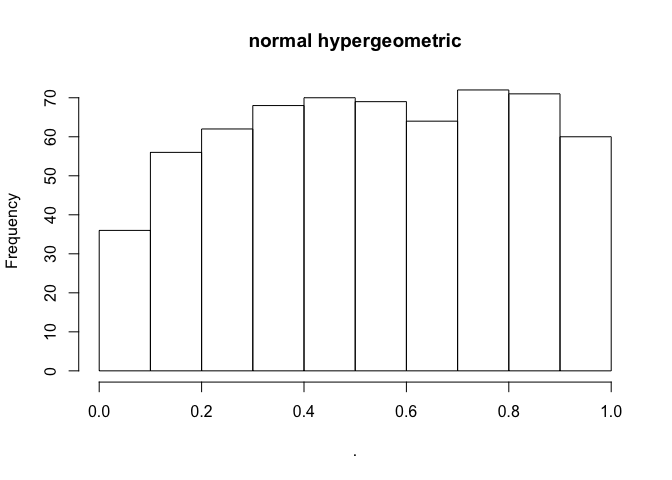
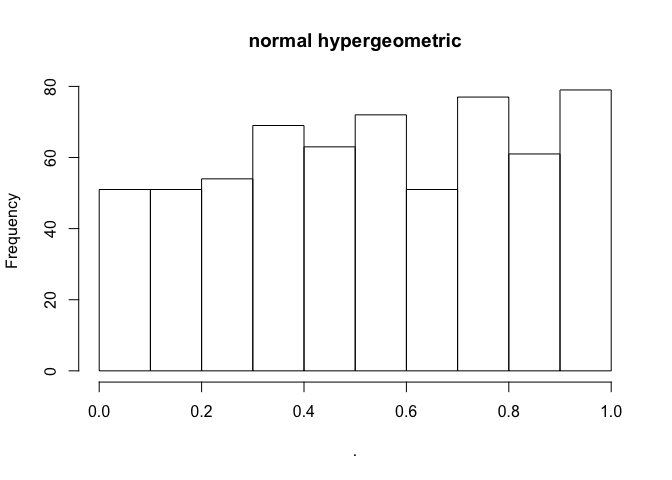
bug fix
a background count bug

diff --git a/README.md b/README.md
@@ -68,94 +68,94 @@ GOEA(gene_set = eids_set,
 </thead>
 <tbody>
 <tr class="odd">
-<td align="left"><a href="GO:0006672" class="uri">GO:0006672</a></td>
-<td align="left">bubble DNA binding</td>
-<td align="right">3</td>
-<td align="right">4</td>
-<td align="right">0.0026516</td>
-<td align="right">0.7022065</td>
-<td align="right">8.40</td>
-</tr>
-<tr class="even">
 <td align="left"><a href="GO:0009967" class="uri">GO:0009967</a></td>
 <td align="left">RNA polymerase III type 3 promoter transcriptional preinitiation complex assembly</td>
 <td align="right">29</td>
 <td align="right">191</td>
-<td align="right">0.0033730</td>
-<td align="right">0.7022065</td>
-<td align="right">1.70</td>
-</tr>
-<tr class="odd">
-<td align="left"><a href="GO:2001235" class="uri">GO:2001235</a></td>
-<td align="left">chorismate mutase activity</td>
-<td align="right">7</td>
-<td align="right">24</td>
-<td align="right">0.0039779</td>
-<td align="right">0.7022065</td>
-<td align="right">3.27</td>
+<td align="right">0.0012078</td>
+<td align="right">0.5996853</td>
+<td align="right">1.77</td>
 </tr>
 <tr class="even">
 <td align="left"><a href="GO:0010647" class="uri">GO:0010647</a></td>
 <td align="left">transcription factor activity, RNA polymerase II core promoter proximal region sequence-specific binding involved in preinitiation complex assembly</td>
 <td align="right">32</td>
 <td align="right">225</td>
-<td align="right">0.0059308</td>
-<td align="right">0.7022065</td>
-<td align="right">1.59</td>
+<td align="right">0.0020695</td>
+<td align="right">0.5996853</td>
+<td align="right">1.66</td>
 </tr>
 <tr class="odd">
 <td align="left"><a href="GO:0023056" class="uri">GO:0023056</a></td>
 <td align="left">dopamine neurotransmitter receptor activity, coupled via Gi/Go</td>
 <td align="right">32</td>
 <td align="right">225</td>
-<td align="right">0.0059308</td>
-<td align="right">0.7022065</td>
-<td align="right">1.59</td>
+<td align="right">0.0020695</td>
+<td align="right">0.5996853</td>
+<td align="right">1.66</td>
 </tr>
 <tr class="even">
-<td align="left"><a href="GO:2001238" class="uri">GO:2001238</a></td>
-<td align="left">citrate (Si)-synthase activity</td>
+<td align="left"><a href="GO:0006672" class="uri">GO:0006672</a></td>
+<td align="left">bubble DNA binding</td>
 <td align="right">3</td>
-<td align="right">5</td>
-<td align="right">0.0061875</td>
-<td align="right">0.7022065</td>
-<td align="right">6.72</td>
+<td align="right">4</td>
+<td align="right">0.0023288</td>
+<td align="right">0.5996853</td>
+<td align="right">8.75</td>
 </tr>
 <tr class="odd">
-<td align="left"><a href="GO:0060538" class="uri">GO:0060538</a></td>
-<td align="left">positive regulation of humoral immune response</td>
-<td align="right">6</td>
-<td align="right">20</td>
-<td align="right">0.0065098</td>
-<td align="right">0.7022065</td>
-<td align="right">3.36</td>
-</tr>
-<tr class="even">
-<td align="left"><a href="GO:0071900" class="uri">GO:0071900</a></td>
-<td align="left">bundle of His development</td>
-<td align="right">12</td>
-<td align="right">61</td>
-<td align="right">0.0070302</td>
-<td align="right">0.7022065</td>
-<td align="right">2.20</td>
-</tr>
-<tr class="odd">
-<td align="left"><a href="GO:0043408" class="uri">GO:0043408</a></td>
-<td align="left">gene conversion of immunoglobulin genes</td>
-<td align="right">15</td>
-<td align="right">85</td>
-<td align="right">0.0079348</td>
-<td align="right">0.7022065</td>
-<td align="right">1.98</td>
+<td align="left"><a href="GO:2001235" class="uri">GO:2001235</a></td>
+<td align="left">chorismate mutase activity</td>
+<td align="right">7</td>
+<td align="right">24</td>
+<td align="right">0.0030061</td>
+<td align="right">0.5996853</td>
+<td align="right">3.40</td>
 </tr>
 <tr class="even">
 <td align="left"><a href="GO:0045859" class="uri">GO:0045859</a></td>
 <td align="left">mucosal immune response</td>
 <td align="right">17</td>
 <td align="right">101</td>
-<td align="right">0.0079599</td>
-<td align="right">0.7022065</td>
-<td align="right">1.89</td>
+<td align="right">0.0045006</td>
+<td align="right">0.5996853</td>
+<td align="right">1.96</td>
+</tr>
+<tr class="odd">
+<td align="left"><a href="GO:0071900" class="uri">GO:0071900</a></td>
+<td align="left">bundle of His development</td>
+<td align="right">12</td>
+<td align="right">61</td>
+<td align="right">0.0045852</td>
+<td align="right">0.5996853</td>
+<td align="right">2.30</td>
+</tr>
+<tr class="even">
+<td align="left"><a href="GO:0043408" class="uri">GO:0043408</a></td>
+<td align="left">gene conversion of immunoglobulin genes</td>
+<td align="right">15</td>
+<td align="right">85</td>
+<td align="right">0.0047575</td>
+<td align="right">0.5996853</td>
+<td align="right">2.06</td>
+</tr>
+<tr class="odd">
+<td align="left"><a href="GO:1902531" class="uri">GO:1902531</a></td>
+<td align="left">11-beta-hydroxysteroid dehydrogenase [NAD(P)] activity</td>
+<td align="right">34</td>
+<td align="right">256</td>
+<td align="right">0.0047870</td>
+<td align="right">0.5996853</td>
+<td align="right">1.55</td>
+</tr>
+<tr class="even">
+<td align="left"><a href="GO:0060538" class="uri">GO:0060538</a></td>
+<td align="left">positive regulation of humoral immune response</td>
+<td align="right">6</td>
+<td align="right">20</td>
+<td align="right">0.0051416</td>
+<td align="right">0.5996853</td>
+<td align="right">3.50</td>
 </tr>
 </tbody>
 </table>
@@ -222,90 +222,90 @@ GOEA(gene_set = eids_set,
 <td align="left">regulation of mitotic recombination</td>
 <td align="right">25</td>
 <td align="right">187</td>
-<td align="right">0.0242545</td>
-<td align="right">0.9744861</td>
-<td align="right">1.51</td>
+<td align="right">0.0141012</td>
+<td align="right">0.5162342</td>
+<td align="right">1.56</td>
 </tr>
 <tr class="even">
 <td align="left"><a href="GO:0008219" class="uri">GO:0008219</a></td>
 <td align="left">transition metal ion transport</td>
 <td align="right">39</td>
 <td align="right">327</td>
-<td align="right">0.0335098</td>
-<td align="right">0.9744861</td>
-<td align="right">1.35</td>
+<td align="right">0.0156435</td>
+<td align="right">0.5162342</td>
+<td align="right">1.39</td>
 </tr>
 <tr class="odd">
-<td align="left"><a href="GO:0040007" class="uri">GO:0040007</a></td>
-<td align="left">mitotic sister chromatid segregation</td>
-<td align="right">17</td>
-<td align="right">140</td>
-<td align="right">0.1119732</td>
-<td align="right">0.9744861</td>
-<td align="right">1.37</td>
-</tr>
-<tr class="even">
-<td align="left"><a href="GO:0021700" class="uri">GO:0021700</a></td>
-<td align="left">citrulline metabolic process</td>
-<td align="right">6</td>
-<td align="right">40</td>
-<td align="right">0.1378236</td>
-<td align="right">0.9744861</td>
-<td align="right">1.70</td>
-</tr>
-<tr class="odd">
-<td align="left"><a href="GO:0043473" class="uri">GO:0043473</a></td>
-<td align="left">DNA damage checkpoint</td>
-<td align="right">2</td>
-<td align="right">8</td>
-<td align="right">0.1532290</td>
-<td align="right">0.9744861</td>
-<td align="right">2.83</td>
-</tr>
-<tr class="even">
-<td align="left"><a href="GO:0006790" class="uri">GO:0006790</a></td>
-<td align="left">mitotic spindle elongation</td>
-<td align="right">7</td>
-<td align="right">51</td>
-<td align="right">0.1608780</td>
-<td align="right">0.9744861</td>
-<td align="right">1.55</td>
-</tr>
-<tr class="odd">
-<td align="left"><a href="GO:0071554" class="uri">GO:0071554</a></td>
-<td align="left">mitotic telophase</td>
-<td align="right">1</td>
-<td align="right">2</td>
-<td align="right">0.1690890</td>
-<td align="right">0.9744861</td>
-<td align="right">5.65</td>
-</tr>
-<tr class="even">
 <td align="left"><a href="GO:0048856" class="uri">GO:0048856</a></td>
 <td align="left">regulation of transcription involved in G1/S transition of mitotic cell cycle</td>
 <td align="right">83</td>
 <td align="right">848</td>
-<td align="right">0.1741215</td>
-<td align="right">0.9744861</td>
-<td align="right">1.11</td>
+<td align="right">0.0683518</td>
+<td align="right">0.9268498</td>
+<td align="right">1.14</td>
+</tr>
+<tr class="even">
+<td align="left"><a href="GO:0040007" class="uri">GO:0040007</a></td>
+<td align="left">mitotic sister chromatid segregation</td>
+<td align="right">17</td>
+<td align="right">140</td>
+<td align="right">0.0852517</td>
+<td align="right">0.9268498</td>
+<td align="right">1.42</td>
 </tr>
 <tr class="odd">
 <td align="left"><a href="GO:0007165" class="uri">GO:0007165</a></td>
 <td align="left">acyl binding</td>
 <td align="right">77</td>
 <td align="right">795</td>
-<td align="right">0.2114339</td>
-<td align="right">0.9744861</td>
-<td align="right">1.09</td>
+<td align="right">0.0988005</td>
+<td align="right">0.9268498</td>
+<td align="right">1.13</td>
 </tr>
 <tr class="even">
-<td align="left"><a href="GO:0048646" class="uri">GO:0048646</a></td>
-<td align="left">G1/S transition of mitotic cell cycle</td>
-<td align="right">17</td>
-<td align="right">156</td>
-<td align="right">0.2170074</td>
-<td align="right">0.9744861</td>
-<td align="right">1.23</td>
+<td align="left"><a href="GO:0021700" class="uri">GO:0021700</a></td>
+<td align="left">citrulline metabolic process</td>
+<td align="right">6</td>
+<td align="right">40</td>
+<td align="right">0.1221631</td>
+<td align="right">0.9268498</td>
+<td align="right">1.75</td>
+</tr>
+<tr class="odd">
+<td align="left"><a href="GO:0006790" class="uri">GO:0006790</a></td>
+<td align="left">mitotic spindle elongation</td>
+<td align="right">7</td>
+<td align="right">51</td>
+<td align="right">0.1415087</td>
+<td align="right">0.9268498</td>
+<td align="right">1.60</td>
+</tr>
+<tr class="even">
+<td align="left"><a href="GO:0043473" class="uri">GO:0043473</a></td>
+<td align="left">DNA damage checkpoint</td>
+<td align="right">2</td>
+<td align="right">8</td>
+<td align="right">0.1453356</td>
+<td align="right">0.9268498</td>
+<td align="right">2.92</td>
+</tr>
+<tr class="odd">
+<td align="left"><a href="GO:0071554" class="uri">GO:0071554</a></td>
+<td align="left">mitotic telophase</td>
+<td align="right">1</td>
+<td align="right">2</td>
+<td align="right">0.1641360</td>
+<td align="right">0.9268498</td>
+<td align="right">5.83</td>
+</tr>
+<tr class="even">
+<td align="left"><a href="GO:0007049" class="uri">GO:0007049</a></td>
+<td align="left">cell wall mannoprotein biosynthetic process</td>
+<td align="right">26</td>
+<td align="right">250</td>
+<td align="right">0.1651823</td>
+<td align="right">0.9268498</td>
+<td align="right">1.21</td>
 </tr>
 </tbody>
 </table>
